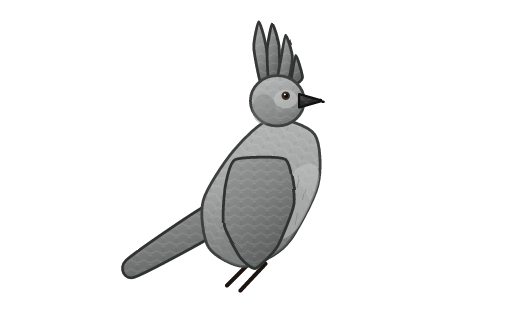
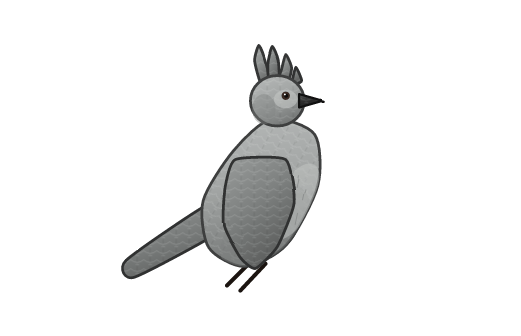
feat(art): the fish eagle's true wingspan and the kwêvoël's true crest (D-083)
The visarend's raised wing reached 0.40 m above its body (a ~0.9 m span); it is redrawn from
its true 2.1 m span (flyers.ts EAGLE_WINGSPAN_M; the length from it and the content sizeMul)
with a 1.3x broader chord. A true raised wing reaches 635 units above the body and the bird box
only 230, so the eagle is drawn at a third of its size in the box (FLYER_BOX_SHRINK, rig.json
boxShrink 3): its masters render 3x larger, the pack packs it 3x larger (the index's scale is
unchanged, so the game shows it 3x larger) and it keeps the plane's texture density
(Standard 1.15, HD 2.3 texture px per drawn px at sizeMul 0.87). Okavango atlas 512x64 ->
512x256 (HD 1024x128 -> 1024x512, +1.5 MiB in an Okavango HD hunt); files 4.0 -> 7.4 KB,
HD 8.9 -> 19.8 KB (lazy).

The kwêvoël's crest was ~0.13 m, twice a real one's 6-7 cm; redrawn at its true length (raised
~42 units above the crown at sizeMul 0.85). Its atlas keeps its pages; 22.0 -> 21.0 KB in the
first download.

The dove, the spurfowl and the kwêvoël are not redrawn smaller, so they get crisper (Standard
2.27, 1.69, 1.18 texture px per drawn px); animalDensity.test.ts holds every bird with a sizeMul
to >= 0.5 (Standard) and >= 1.0 (HD). scenery.test.ts checks the eagle on its hitbox / 3 in the
box. Only visarend and kwevoel are re-rendered and re-packed.

Claude-Session: https://claude.ai/code/session_01X9BKcABj5FscZbGJZnCiA3

Changed region(s): [[0.4607, 0.0595, 0.5835, 0.2381]]

diff --git a/tools/art/flyers.ts b/tools/art/flyers.ts
@@ -52,7 +52,26 @@ export const FLYER_FRAMES: Readonly<Partial<Record<BirdClip, number>>> = {
 /** Download group override (rig.json `group`); the rest follow the catalog. */
 export const FLYER_GROUPS: Readonly<Record<string, string>> = { stormvoel: 'late' };
 
+/**
+ * v1.20.3 (D-083): flyers drawn at 1/n of their size in the bird box (rig.json `boxShrink`), for
+ * wings longer than the box: the fish eagle's true ~2.1 m span reaches 635 units above its body's
+ * centre line, the box only 230. Their masters are rendered n × larger, the pack packs them n ×
+ * larger and the game shows them n × larger, so they keep their plane's texture density.
+ */
+export const FLYER_BOX_SHRINK: Readonly<Record<string, number>> = { visarend: 3 };
+
+/**
+ * v1.20.3 (D-083): the African fish eagle's wingspan (m): 2.0–2.4 m (a male ~2.0, a female ~2.4;
+ * other guides 1.75–2.1 m). Its raised wing reaches half of it above its body's centre line.
+ */
+export const EAGLE_WINGSPAN_M = 2.1;
+
+/** The guineafowl's units per metre (263 units = its 0.5 m standing height, tools/sizes.ts). */
+const UNITS_PER_M = 263 / 0.5;
+
 interface Draw {
+  /** D-083: the fish eagle's raised wing above its centre line, in its art units. */
+  readonly eagleWing: number;
   readonly ink: string;
   /** Ink width in bird units for this plane. */
   readonly w: number;
@@ -498,22 +517,26 @@ const SLIM_WING: readonly (readonly [number, number])[] = [
   [-30, 0],
 ];
 
-/** Crest: tall pointed tuft of 4 feathers, raised by `up` (0 … 1). */
+/**
+ * Crest: pointed tuft of 4 feathers, raised by `up` (0 … 1). v1.20.3 (D-083): at its true length,
+ * a real crest's 6–7 cm (raised: ~42 units above the crown at −140, × the content sizeMul 0.85);
+ * it was drawn ~0.13 m, twice that, and made the bird's whole outline read 40 % too tall.
+ */
 function crest(o: Draw, up: number): string {
   const tips: Pt[] = [
-    [-2, -200 - up * 10],
-    [14, -196 - up * 14],
-    [30, -184 - up * 10],
-    [42, -164],
+    [-2, -172 - up * 10],
+    [14, -170 - up * 12],
+    [30, -162 - up * 8],
+    [42, -150],
   ];
   const parts = tips.map(([tx, ty], i) =>
     fill(
       smoothD(
         [
           [0 + i * 10, -132],
-          [tx - 6, ty + 30],
+          [tx - 5, ty + 18],
           [tx, ty],
-          [tx + 8, ty + 26],
+          [tx + 7, ty + 16],
           [12 + i * 10, -130],
         ],
         true,
@@ -683,10 +706,23 @@ const EAGLE_WING: readonly (readonly [number, number])[] = [
   [-60, 0],
 ];
 
+/** D-083: the eagle's broad wing, 1.3× the chord of the old drawing's (a true eagle's span is
+ *  about 6.5× its chord); s is still 0 … 1 from the shoulder out. */
+const EAGLE_CHORD = 1.3;
+const EAGLE_BROAD_WING = EAGLE_WING.map(([x, sp]) => [x * EAGLE_CHORD, sp] as const);
+
+/**
+ * The fish eagle (D-083): its body in the guineafowl's units (content sizeMul 0.87 brings it to
+ * its true 0.63–0.75 m), its wings from its true wingspan (o.eagleWing), the whole drawn at
+ * 1/FLYER_BOX_SHRINK of its size so the raised wings fit the bird box; the game shows it n ×
+ * larger, so its line weight in art units is the other birds' (no compensation here).
+ */
 function visarend(o: Draw, clip: BirdClip, k: number): string {
+  const n = FLYER_BOX_SHRINK.visarend ?? 1;
   const P = EAGLE;
   const a = clip === 'glide' ? 0.2 + k * 0.05 : beat(k);
-  const len = clip === 'glide' ? 190 : 180;
+  // The shoulder sits 24 units above the centre line; the raised wing reaches eagleWing above it.
+  const len = (clip === 'glide' ? 190 / 180 : 1) * (o.eagleWing - 24);
   const body = smoothD(
     [
       [-150, -6],
@@ -702,8 +738,8 @@ function visarend(o: Draw, clip: BirdClip, k: number): string {
   );
   const id = nextId();
   return g(
-    {},
-    fill(wingD(EAGLE_WING, 30, -20, len * 0.9, a), P.wing, o),
+    { transform: `scale(${1 / n})` },
+    fill(wingD(EAGLE_BROAD_WING, 30, -20, len * 0.9, a), P.wing, o),
     // White wedge tail.
     fill(
       polyD([
@@ -730,15 +766,16 @@ function visarend(o: Draw, clip: BirdClip, k: number): string {
     flat('M168 -24Q178 -22 178 -14L172 -12Z', P.bill),
     flat(ellipseD(138, -28, 5, 5), P.face),
     flat(ellipseD(139, -28, 2.6, 2.6), o.ink),
-    fill(wingD(EAGLE_WING, 10, -24, len, a), a >= 0 ? P.wing : P.wingLight, o),
+    fill(wingD(EAGLE_BROAD_WING, 10, -24, len, a), a >= 0 ? P.wing : P.wingLight, o),
+    // Chestnut forewing (the lesser coverts), the inner third of the wing.
     flat(
       wingD(
         [
-          [40, 0.05],
-          [52, 0.32],
-          [30, 0.36],
+          [40 * EAGLE_CHORD, 0.05],
+          [52 * EAGLE_CHORD, 0.32],
+          [30 * EAGLE_CHORD, 0.36],
           [0, 0.3],
-          [-20, 0.05],
+          [-20 * EAGLE_CHORD, 0.05],
         ],
         10,
         -24,
@@ -1187,6 +1224,16 @@ const DRAW: Readonly<Record<string, (o: Draw, clip: BirdClip, k: number) => stri
   stormvoel,
 };
 
+/**
+ * D-083: the fish eagle's raised wing above its body's centre line, in its art units: half its
+ * true wingspan beside the guineafowl, over the content sizeMul the game draws it at.
+ */
+export function eagleWingUnits(content: ContentBundle): number {
+  const c = content.birds.creatures.find((x) => x.id === 'visarend');
+  const mul = c !== undefined && 'sizeMul' in c ? (c.sizeMul ?? 1) : 1;
+  return ((EAGLE_WINGSPAN_M / 2) * UNITS_PER_M) / mul;
+}
+
 /** One master frame (masterScale × the plane's @1x frame), far frames tinted toward the sky. */
 export function renderFlyerFrame(
   cfg: ArtConfig,
@@ -1208,8 +1255,17 @@ export function renderFlyerFrame(
   resetIds();
   emitted.clear();
   const look = planeLook(cfg, content, plane);
-  const o: Draw = { ink: cfg.ink, w: look.line, far: plane === 'far', rnd: prng(k + 1) };
-  const { w, h } = masterSize(cfg, content, plane);
+  const o: Draw = {
+    ink: cfg.ink,
+    w: look.line,
+    far: plane === 'far',
+    rnd: prng(k + 1),
+    eagleWing: eagleWingUnits(content),
+  };
+  // D-083: a flyer drawn small in the box gets a master that much larger (rig.json boxShrink).
+  const m = masterSize(cfg, content, plane);
+  const n = FLYER_BOX_SHRINK[creature] ?? 1;
+  const [w, h] = [m.w * n, m.h * n];
   const wob = cfg.birds.wobble[plane];
   const filter = wobbleFilter('wob', cfg.birds.wobble.frequency, wob, 13);
   const svg = svgDoc(

diff --git a/src/game/assets/animalDensity.test.ts b/src/game/assets/animalDensity.test.ts
@@ -1,11 +1,15 @@
 // v1.17b (D-080, review 4): the true-size cameos and ostriches stay crisp — every frame on their
 // sheets has at least 0.5 texture px per drawn design px in Standard and, where an HD twin is
 // packed, at least 1.0 in HD (it is the Standard file at 2×). The first pass drew the cameos at
-// 0.25 and showed the ostriches 2.8× their 1.5× sheet (0.54): blurry.
+// 0.25 and showed the ostriches 2.8× their 1.5× sheet (0.54): blurry. v1.20.3 (D-083): the birds
+// drawn at a sizeMul (the fly-overs and the kwêvoël) keep that density too; smaller than the
+// guineafowl's units, they get crisper, and the fish eagle, drawn at a third of its size in the
+// bird box (rig.json boxShrink), is packed three times larger.
 import { describe, expect, it } from 'vitest';
 import std from '../../../public/assets/asset-index.json' with { type: 'json' };
 import hd from '../../../public/assets/asset-index-hd.json' with { type: 'json' };
 import { loadContent } from '../../../tools/testContent';
+import { sizeMulOf } from '../../sim/birds/size';
 import { BRAKKIE_SHEET, BRAKKIE_SHEET_W } from '../brakkie/brakkieKeys';
 import { BRAKKIE_DRAWN_MUL, brakkieFrames } from '../brakkie/brakkieSheet';
 import { CAMEO_SHEETS, CAMEO_SHEET_AREAS, CAMEO_SHEET_SIZE } from '../cameos/cameoKeys';
@@ -21,6 +25,12 @@ import {
 type Img = { width: number; height: number };
 const images = std.images as Record<string, Img>;
 const hdImages = hd.images as Record<string, Img | undefined>;
+type BirdPlane = { scale: number; x1: { pages: unknown[] } };
+const birds = std.birds as Record<string, Partial<Record<string, BirdPlane>>>;
+const hdBirds = hd.birds as Record<
+  string,
+  Partial<Record<string, { pages: unknown[] }>> | undefined
+>;
 
 describe('the true-size animals’ texture density (D-080)', () => {
   for (const area of CAMEO_SHEET_AREAS)
@@ -50,6 +60,24 @@ describe('the true-size animals’ texture density (D-080)', () => {
     expect(twin, 'the ostriches’ HD twin').toBeDefined();
     if (twin !== undefined)
       expect(twin.width / OSTRICH_SHEET_W / OSTRICH_DRAWN_MUL).toBeGreaterThanOrEqual(1);
+  });
+
+  it('D-083: the birds drawn at a sizeMul, ≥ 0.5 (Standard) and ≥ 1.0 (HD) per drawn px', () => {
+    const sized = loadContent().birds.creatures.filter((c) => sizeMulOf(c) !== 1);
+    expect(sized.map((c) => c.id).sort()).toEqual(['fisant', 'kwevoel', 'tortelduif', 'visarend']);
+    for (const c of sized) {
+      const planes = birds[c.id];
+      if (planes === undefined) throw new Error(`no ${c.id} in the index`);
+      for (const plane of c.planes) {
+        const e = planes[plane];
+        if (e === undefined) throw new Error(`no ${c.id} ${plane} atlas`);
+        // Texture px per drawn design px: 1 / (the atlas's own scale × sizeMul); HD is 2×.
+        const d = 1 / (e.scale * sizeMulOf(c));
+        expect(d, `${c.id} ${plane}`).toBeGreaterThanOrEqual(0.5);
+        expect(hdBirds[c.id]?.[plane], `${c.id} ${plane} HD`).toBeDefined();
+        expect(2 * d, `${c.id} ${plane} HD`).toBeGreaterThanOrEqual(1);
+      }
+    }
   });
 
   it('Brakkie: his frames drawn for his true size, ≥ 0.5 (Standard) and ≥ 1.0 (HD twin) per drawn px', () => {

diff --git a/tools/assets/pack.ts b/tools/assets/pack.ts
@@ -182,6 +182,11 @@ const rigSchema = z
     x2: z.boolean(),
     /** Pack resolution per plane (≤ 1): drawn scaled up by 1/res (saves memory on small planes). */
     planeRes: z.partialRecord(z.enum(['near', 'mid', 'far']), z.number().min(0.25).max(1)),
+    /** v1.20.3 (D-083): the frames draw the creature at 1/boxShrink of its size in the bird box
+     *  (the fish eagle's true wings would not fit it at full size). Packed at boxShrink × the
+     *  box's px (the masters must be that big), so the bird keeps its plane's texture density,
+     *  and shown boxShrink × larger: the index's scale is unchanged (1 / planeRes). */
+    boxShrink: z.number().int().min(1).max(4),
     /** Load group override: "late" (after the first download settles), "common" or a biome id. */
     group: z.string(),
     /** D-053: false = no HD version in the HD pack (default: one when a 2× source exists). */
@@ -717,12 +722,23 @@ export async function packAssets(o: PackOptions): Promise<PackReport> {
       );
       // D-029: a plane may be packed below its display size (rig planeRes) and drawn scaled up.
       const res = rig.planeRes?.[plane] ?? 1;
-      const x1 = packAtlas(cells, 1, `${slug(creature)}-${plane}`, group, 'birds', rig, res);
+      // D-083: a creature drawn small in the box is packed that much larger (scale stays 1/res).
+      const packRes = res * (rig.boxShrink ?? 1);
+      const x1 = packAtlas(cells, 1, `${slug(creature)}-${plane}`, group, 'birds', rig, packRes);
       if (x1 === null) continue;
       const x2 =
         rig.x2 === false
           ? null
-          : packAtlas(cells, 2, `${slug(creature)}-${plane}`, group, 'birds', rig, res, x1.alias);
+          : packAtlas(
+              cells,
+              2,
+              `${slug(creature)}-${plane}`,
+              group,
+              'birds',
+              rig,
+              packRes,
+              x1.alias,
+            );
       // D-053: the HD pack's @2x set from the same masters (null when they are smaller).
       const hdSet =
         rig.hd === false || !hdBird(plane, group, creature)
@@ -734,7 +750,7 @@ export async function packAssets(o: PackOptions): Promise<PackReport> {
               hdGroupOf(group),
               'birds',
               rig,
-              res,
+              packRes,
               x1.alias,
             );
       const clipEntries: BirdPlaneEntry['clips'] = {};

diff --git a/tools/art/scenery.test.ts b/tools/art/scenery.test.ts
@@ -14,7 +14,7 @@ import { BIRD_BOX } from '../assets/targets';
 import { loadContent } from '../testContent';
 import { BIOME_PLANS } from './biomes';
 import { loadArtConfig } from './config';
-import { FLYER_FRAMES, FLYERS, renderFlyerFrame } from './flyers';
+import { FLYER_BOX_SHRINK, FLYER_FRAMES, FLYERS, renderFlyerFrame } from './flyers';
 import { propBox, renderLayer, renderProp } from './landscape';
 import { renderSprite, SPRITES } from './sprites';
 
@@ -70,6 +70,8 @@ describe('interim flyers fit the bird box and their hitbox (D-031)', () => {
         const c = content.birds.creatures.find((x) => x.id === creature);
         const hb = c !== undefined && 'hitbox' in c ? c.hitbox.body : undefined;
         expect(hb, `${creature} has a body hitbox`).toBeDefined();
+        // D-083: a flyer drawn at 1/n of its size in the box sits on its hitbox / n there.
+        const n = FLYER_BOX_SHRINK[creature] ?? 1;
         for (const [plane, clips] of Object.entries(planes) as [
           'near' | 'mid' | 'far',
           readonly BirdClip[],
@@ -79,9 +81,10 @@ describe('interim flyers fit the bird box and their hitbox (D-031)', () => {
               const img = renderFlyerFrame(cfg, content, creature, plane, clip, k);
               expect(edgeAlpha(img), `${plane} ${clip}/${k} touches the frame edge`).toBe(0);
               if (clip === 'hit_poof' || hb === undefined) continue;
-              expect(bodyCover(img, hb.rx, hb.ry), `${plane} ${clip}/${k} body`).toBeGreaterThan(
-                MIN_COVER[creature] ?? 0.85,
-              );
+              expect(
+                bodyCover(img, hb.rx / n, hb.ry / n),
+                `${plane} ${clip}/${k} body`,
+              ).toBeGreaterThan(MIN_COVER[creature] ?? 0.85);
             }
       },
       60_000,

diff --git a/tools/art/interim.ts b/tools/art/interim.ts
@@ -134,7 +134,7 @@ import { AMMO_SPRITES } from './ammo';
 import { SIGHT_SPRITES } from './sights';
 import { RANGE_SPRITES } from './rangeArt';
 import { biomeSheets, flyerSheet, spriteSheet } from './scenerySheets';
-import { FLYER_FRAMES, FLYER_GROUPS, FLYERS, renderFlyerFrame } from './flyers';
+import { FLYER_BOX_SHRINK, FLYER_FRAMES, FLYER_GROUPS, FLYERS, renderFlyerFrame } from './flyers';
 
 function arg(name: string): string | undefined {
   const i = process.argv.indexOf(name);
@@ -973,6 +973,7 @@ if (wants('flyers')) {
       }
     }
     const group = FLYER_GROUPS[creature];
+    const shrink = FLYER_BOX_SHRINK[creature];
     put(
       join(dir, 'rig.json'),
       await json({
@@ -980,6 +981,8 @@ if (wants('flyers')) {
         x2: false,
         encode: 'png8',
         ...(group === undefined ? {} : { group }),
+        // D-083: drawn at 1/boxShrink of its size in the bird box (its wings would not fit).
+        ...(shrink === undefined ? {} : { boxShrink: shrink }),
         planeClips: planes,
       }),
     );

diff --git a/docs/06-ASSET-DELIVERY.md b/docs/06-ASSET-DELIVERY.md
@@ -94,7 +94,10 @@ ink, fewer and larger dots on the far plane).
 set: the game draws @1x at 1 texture px per canvas px on every tier, D-029 §4), `"encode":
 "png8"` (palette PNG pages, about 3–4× smaller; fine for flat-fill art) and `"origin":
 "interim"` (only for stand-in art; leave it out), `"planeRes": { "mid": 0.75 }` (pack a plane
-below its display size; the game draws it scaled up) and `"group": "late"` (download after the
+below its display size; the game draws it scaled up), `"boxShrink": 3` (D-083: the frames draw
+the bird at 1/3 of its size in the bird box, for wings too long for the box at full size —
+deliver masters 3× the box's size; the tool packs them 3× larger and the game shows them 3×
+larger, so they keep the plane's texture density) and `"group": "late"` (download after the
 first download settles, while the title is up: rare variants, bosses; until then the placeholder
 shows).
 
